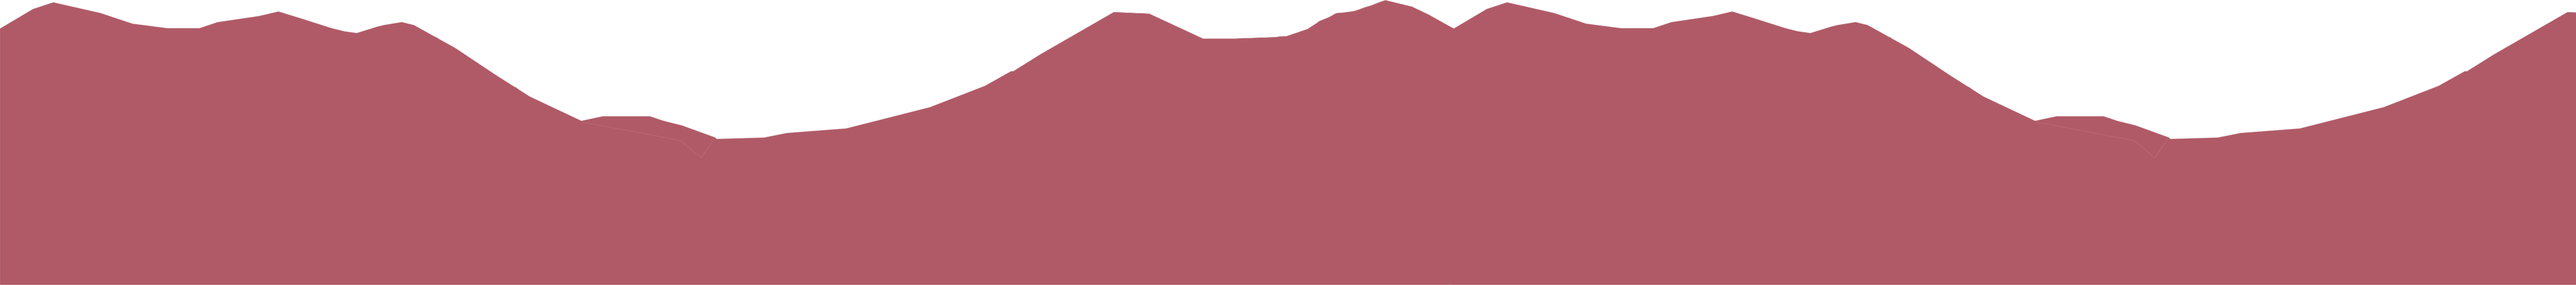
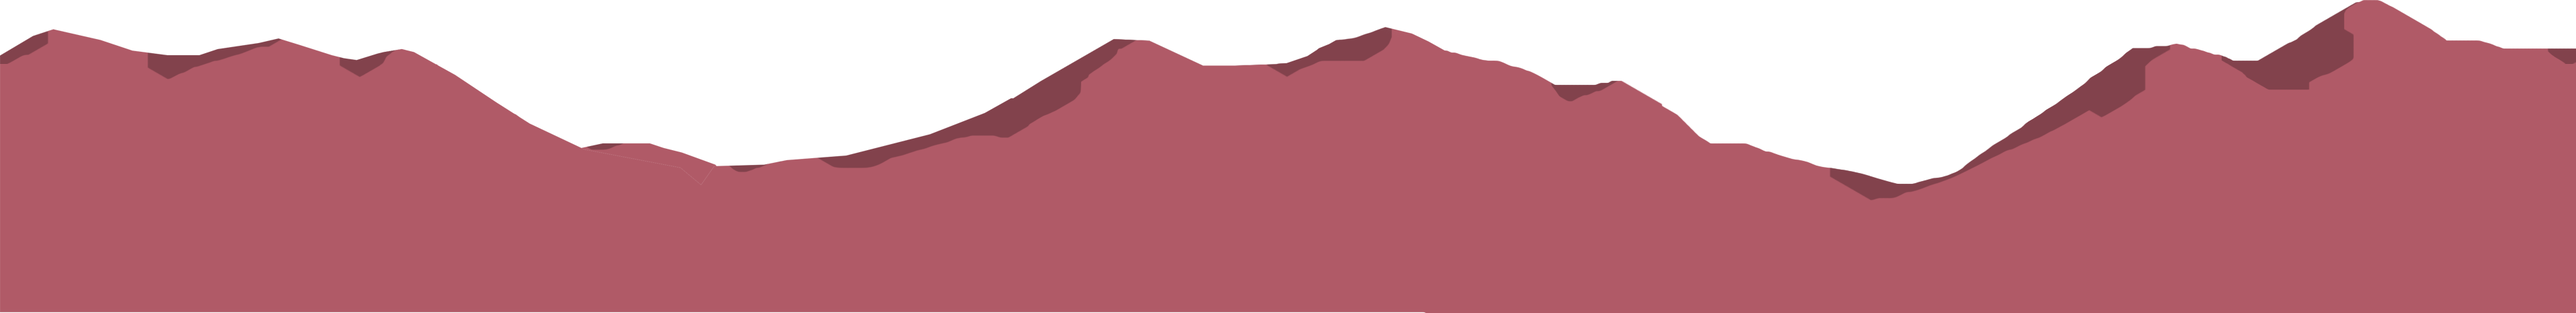
Minor changes + boss explosion

Changed region(s): [[0.0, 0.0, 1.0, 0.6439], [0.0, 0.9811, 1.0, 1.0]]

diff --git a/explosion.go b/explosion.go
@@ -33,6 +33,8 @@ type explosion struct {
 	y     float64
 	frame int
 	step  int
+	delay int
+	isBig bool
 }
 
 type explosionSet struct {
@@ -43,18 +45,27 @@ type explosionSet struct {
 func (g *game) explosionSetUpdate() {
 
 	for pos := 0; pos < g.explosions.numExplosions; pos++ {
-		g.explosions.explosions[pos].x -= firstPlanPxPerFrame
-		if g.explosions.explosions[pos].frame >= explosionNumFrames {
-			g.explosions.explosions[pos].step++
-			g.explosions.explosions[pos].frame = 0
-			if g.explosions.explosions[pos].step >= explosionNumSteps {
-				g.explosions.numExplosions--
-				g.explosions.explosions[pos] = g.explosions.explosions[g.explosions.numExplosions]
-				g.explosions.explosions = g.explosions.explosions[:g.explosions.numExplosions]
-				pos--
+		if !g.level.bossBattle && !g.level.endLevel {
+			g.explosions.explosions[pos].x -= firstPlanPxPerFrame
+		}
+		if g.explosions.explosions[pos].delay >= 0 {
+			g.explosions.explosions[pos].delay--
+			if g.explosions.explosions[pos].delay == 0 {
+				g.playSound(enemyHurtSound)
 			}
 		} else {
-			g.explosions.explosions[pos].frame++
+			if g.explosions.explosions[pos].frame >= explosionNumFrames {
+				g.explosions.explosions[pos].step++
+				g.explosions.explosions[pos].frame = 0
+				if g.explosions.explosions[pos].step >= explosionNumSteps {
+					g.explosions.numExplosions--
+					g.explosions.explosions[pos] = g.explosions.explosions[g.explosions.numExplosions]
+					g.explosions.explosions = g.explosions.explosions[:g.explosions.numExplosions]
+					pos--
+				}
+			} else {
+				g.explosions.explosions[pos].frame++
+			}
 		}
 	}
 
@@ -65,12 +76,16 @@ func (g game) explosionSetDraw(screen *ebiten.Image) {
 	for pos := 0; pos < g.explosions.numExplosions; pos++ {
 		op := &ebiten.DrawImageOptions{}
 		op.GeoM.Translate(g.explosions.explosions[pos].x-explosionHalfXSize, g.explosions.explosions[pos].y-explosionHalfYSize)
-		screen.DrawImage(explosionImages[g.explosions.explosions[pos].step], op)
+		if g.explosions.explosions[pos].isBig {
+			screen.DrawImage(bigExplosionImages[g.explosions.explosions[pos].step], op)
+		} else {
+			screen.DrawImage(explosionImages[g.explosions.explosions[pos].step], op)
+		}
 	}
 
 }
 
-func (g *game) addExplosion(x, y float64) {
-	g.explosions.explosions = append(g.explosions.explosions, explosion{x: x, y: y})
+func (g *game) addExplosion(x, y float64, delay int, isBig bool) {
+	g.explosions.explosions = append(g.explosions.explosions, explosion{x: x, y: y, delay: delay, isBig: isBig})
 	g.explosions.numExplosions++
 }

diff --git a/player.go b/player.go
@@ -271,8 +271,8 @@ func (g *game) playerUpdate() {
 		if g.player.collision {
 			g.player.lives--
 			g.playSound(playerHurtSound)
-			g.addExplosion(g.player.x, g.player.y)
-			g.player.releasePowerUps(&(g.powerUpSet))
+			g.addExplosion(g.player.x, g.player.y, 0, true)
+			g.player.releasePowerUps(&(g.powerUpSet), g.level.bossBattle)
 			g.player.bullets = initBulletSet()
 			g.player.reset()
 			g.player.isDead = true
@@ -532,14 +532,18 @@ func (p *player) checkLiveWin() {
 	}
 }
 
-func (p *player) releasePowerUps(ps *powerUpSet) {
+func (p *player) releasePowerUps(ps *powerUpSet, isBossBattle bool) {
 	numToLaunch := p.usedPowerUp / 2
 	for i := 0; i < numToLaunch; i++ {
 		xShift := rand.Intn(3) - 1
 		yShift := rand.Intn(3) - 1
+		vx := float64(xShift)
+		if !isBossBattle {
+			vx -= firstPlanPxPerFrame
+		}
 		ps.addPowerUp(powerUp{
 			x: p.x + float64(10*i), y: p.y + float64(10*i),
-			vx: -firstPlanPxPerFrame + float64(xShift), vy: float64(yShift),
+			vx: vx, vy: float64(yShift),
 		})
 	}
 }

diff --git a/game.go b/game.go
@@ -225,4 +225,40 @@ func loadDurableImages() {
 		panic(err)
 	}
 	explosionImages[5] = img
+
+	img, _, err = ebitenutil.NewImageFromFile("assets/GrosseExplosion1.png")
+	if err != nil {
+		panic(err)
+	}
+	bigExplosionImages[0] = img
+
+	img, _, err = ebitenutil.NewImageFromFile("assets/GrosseExplosion2.png")
+	if err != nil {
+		panic(err)
+	}
+	bigExplosionImages[1] = img
+
+	img, _, err = ebitenutil.NewImageFromFile("assets/GrosseExplosion3.png")
+	if err != nil {
+		panic(err)
+	}
+	bigExplosionImages[2] = img
+
+	img, _, err = ebitenutil.NewImageFromFile("assets/GrosseExplosion4.png")
+	if err != nil {
+		panic(err)
+	}
+	bigExplosionImages[3] = img
+
+	img, _, err = ebitenutil.NewImageFromFile("assets/GrosseExplosion5.png")
+	if err != nil {
+		panic(err)
+	}
+	bigExplosionImages[4] = img
+
+	img, _, err = ebitenutil.NewImageFromFile("assets/GrosseExplosion6.png")
+	if err != nil {
+		panic(err)
+	}
+	bigExplosionImages[5] = img
 }

diff --git a/boss.go b/boss.go
@@ -257,6 +257,10 @@ func (g *game) bossSetUpdate() {
 		if g.bossSet.bosses[pos].isDead() {
 			g.player.points += g.bossSet.bosses[pos].points
 			g.bossSet.deadBosses = append(g.bossSet.deadBosses, g.bossSet.bosses[pos])
+			g.addExplosion(g.bossSet.bosses[pos].x, g.bossSet.bosses[pos].y, 1, true)
+			g.addExplosion(g.bossSet.bosses[pos].x+30, g.bossSet.bosses[pos].y+70, 20, false)
+			g.addExplosion(g.bossSet.bosses[pos].x-50, g.bossSet.bosses[pos].y-32, 38, false)
+			g.addExplosion(g.bossSet.bosses[pos].x+40, g.bossSet.bosses[pos].y-55, 52, false)
 			g.bossSet.numBosses--
 			g.bossSet.bosses[pos] = g.bossSet.bosses[g.bossSet.numBosses]
 			g.bossSet.bosses = g.bossSet.bosses[:g.bossSet.numBosses]

diff --git a/boss2.go b/boss2.go
@@ -158,6 +158,16 @@ func (b *boss) boss2Update(bs *bulletSet, p *player) bool {
 					b.phaseLoop = 0
 				}
 				noBulletNum := rand.Intn(numBullets-2) + 1
+				if b.phase == 2 {
+					boundMin := numBullets / 4
+					boundMax := 3 * numBullets / 4
+					if noBulletNum < boundMin {
+						noBulletNum = boundMin
+					}
+					if noBulletNum > boundMax {
+						noBulletNum = boundMax
+					}
+				}
 				for bNum := 0; bNum < numBullets; bNum++ {
 					if bNum != noBulletNum {
 						y := float64(boss2BulletMinY) + float64(bNum*(boss2BulletMaxY-boss2BulletMinY))/float64(numBullets-1)

diff --git a/enemy.go b/enemy.go
@@ -211,7 +211,8 @@ func (g *game) enemySetUpdate() {
 			if g.enemySet.enemies[pos].pv <= 0 {
 				g.enemySet.enemies[pos].deathAction(&(g.bulletSet), &(g.powerUpSet), &(g.player.points), g.level.bossBattle)
 				g.playSound(enemyHurtSound)
-				g.addExplosion(g.enemySet.enemies[pos].x, g.enemySet.enemies[pos].y)
+				isBig := g.enemySet.enemies[pos].xSize >= 100
+				g.addExplosion(g.enemySet.enemies[pos].x, g.enemySet.enemies[pos].y, 0, isBig)
 			}
 			g.enemySet.numEnemies--
 			g.enemySet.enemies[pos] = g.enemySet.enemies[g.enemySet.numEnemies]

diff --git a/level.go b/level.go
@@ -132,7 +132,7 @@ func (l level) draw(screen *ebiten.Image) {
 		op,
 	)
 
-	fourthPlanStartPos := float64(l.levelTotalFrames)*fourthPlanPxPerFrame - 584
+	fourthPlanStartPos := float64(l.levelTotalFrames)*fourthPlanPxPerFrame - float64(l.fourthPlanTotalXShift)
 	fourthPlanShift := fourthPlanPxPerFrame*float64(l.currentFrame) - fourthPlanStartPos
 	if fourthPlanShift > 0 {
 		drawFourthPlan(screen, levelFourthPlan, fourthPlanShift, float64(l.fourthPlanYShift))

diff --git a/level1.go b/level1.go
@@ -25,11 +25,11 @@ func (g *game) setUpLevel1() {
 	loadLevel1Background()
 
 	var l level
-	l.firstPlanHeight = 396
-	l.secondPlanHeight = 342
-	l.thirdPlanHeight = 404
+	l.firstPlanHeight = 394
+	l.secondPlanHeight = 336
+	l.thirdPlanHeight = 388
 	l.fourthPlanYShift = 48
-	l.fourthPlanTotalXShift = 584
+	l.fourthPlanTotalXShift = 1080
 	l.levelTotalFrames = 8661
 	l.spawnSequence = level1SpawnSequence
 

diff --git a/draw.go b/draw.go
@@ -37,6 +37,7 @@ func (g *game) Draw(screen *ebiten.Image) {
 	case gameIntro:
 		g.introDraw(screen)
 	case gameInLevel1, gameInLevel2:
+		// if g.stateFrame < framesBeforeLevel { dessiner image noire de + en + transparente et l'afficher au dessus }
 		if g.stateFrame >= framesBeforeLevel {
 			g.level.draw(screen)
 			g.bulletSet.draw(screen, color.RGBA{255, 0, 0, 255})

diff --git a/ui.go b/ui.go
@@ -67,7 +67,7 @@ func (p player) drawUI(screen *ebiten.Image) {
 
 	// Draw lifes
 	xTranslate = float64(leftUIOffset)
-	yTranslate = topUIOffset - lifeDisplayHeight
+	yTranslate = topUIOffset - lifeDisplayHeight - 5
 	for i := 0; i < p.lives; i++ {
 		op = &ebiten.DrawImageOptions{}
 		op.GeoM.Translate(xTranslate, yTranslate)

diff --git a/level2.go b/level2.go
@@ -25,9 +25,9 @@ func (g *game) setUpLevel2() {
 	loadLevel2Background()
 
 	var l level
-	l.firstPlanHeight = 285
-	l.secondPlanHeight = 402
-	l.thirdPlanHeight = 424
+	l.firstPlanHeight = 271
+	l.secondPlanHeight = 419
+	l.thirdPlanHeight = 465
 	l.spawnSequence = level2SpawnSequence
 
 	g.level = l

diff --git a/global.go b/global.go
@@ -86,6 +86,7 @@ var bonusImage *ebiten.Image
 
 // explosion graphics
 var explosionImages [explosionNumSteps]*ebiten.Image
+var bigExplosionImages [explosionNumSteps]*ebiten.Image
 
 // sounds
 var infiniteMusic *audio.InfiniteLoop
